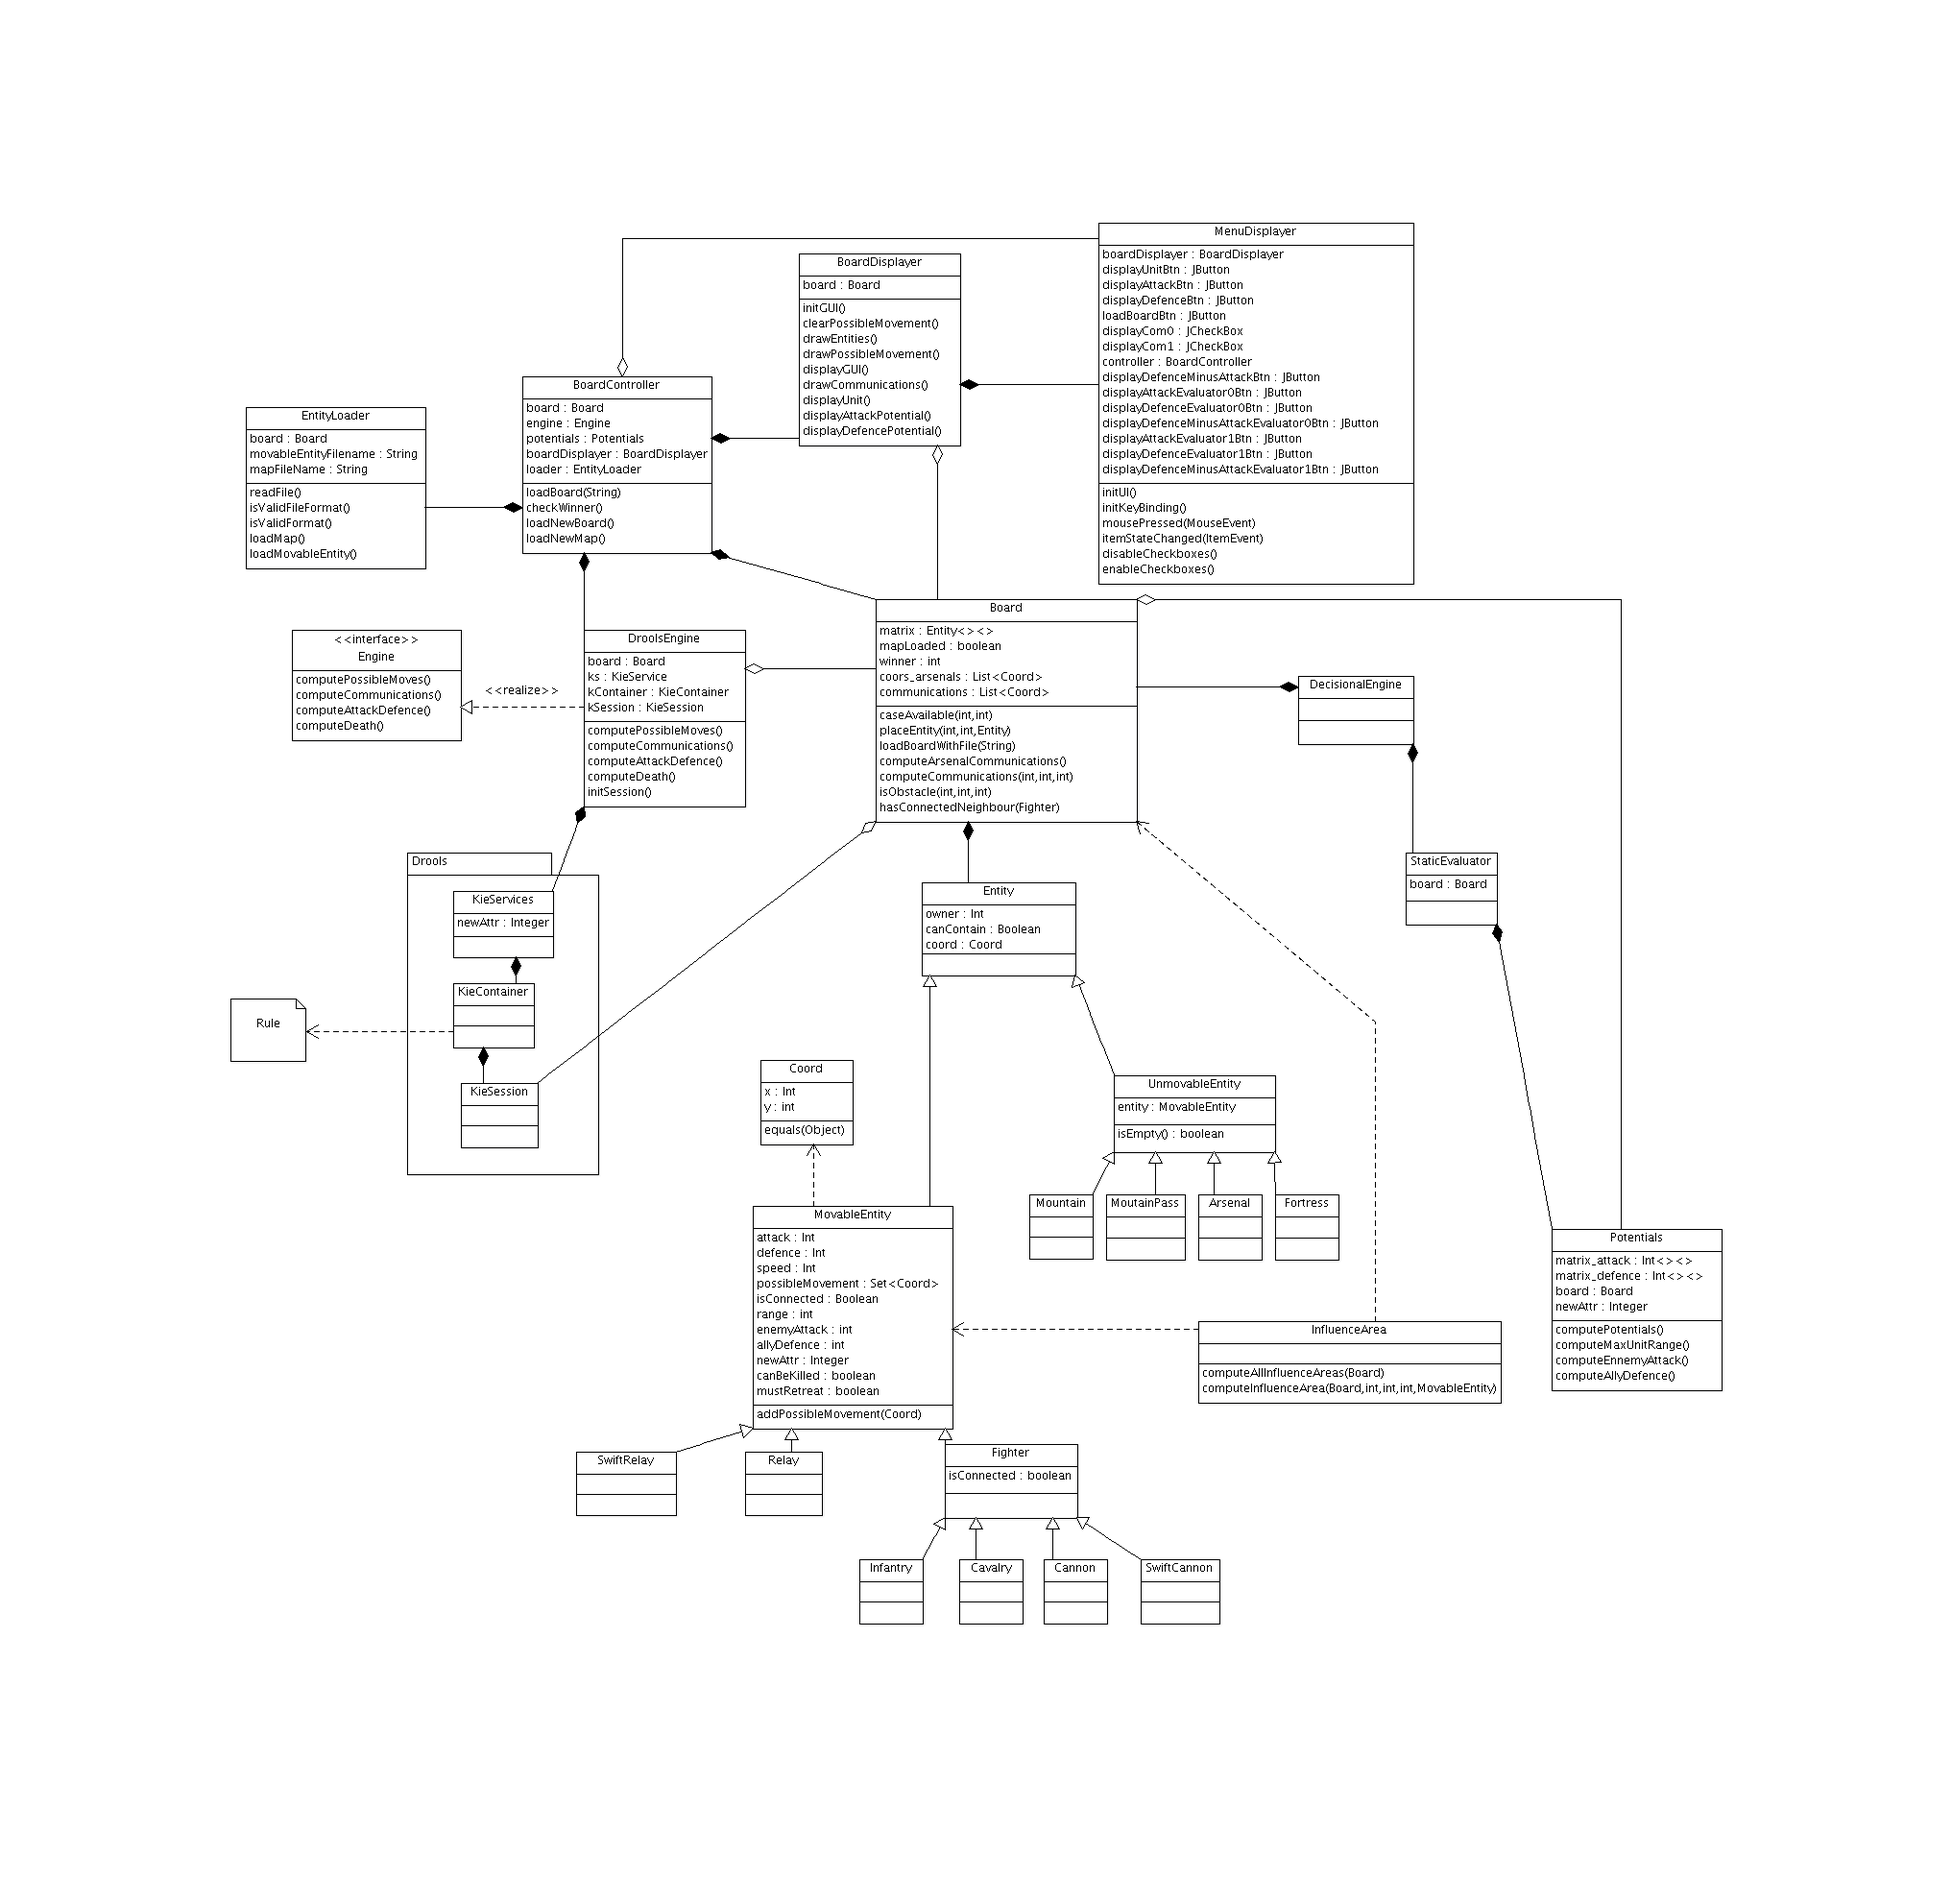
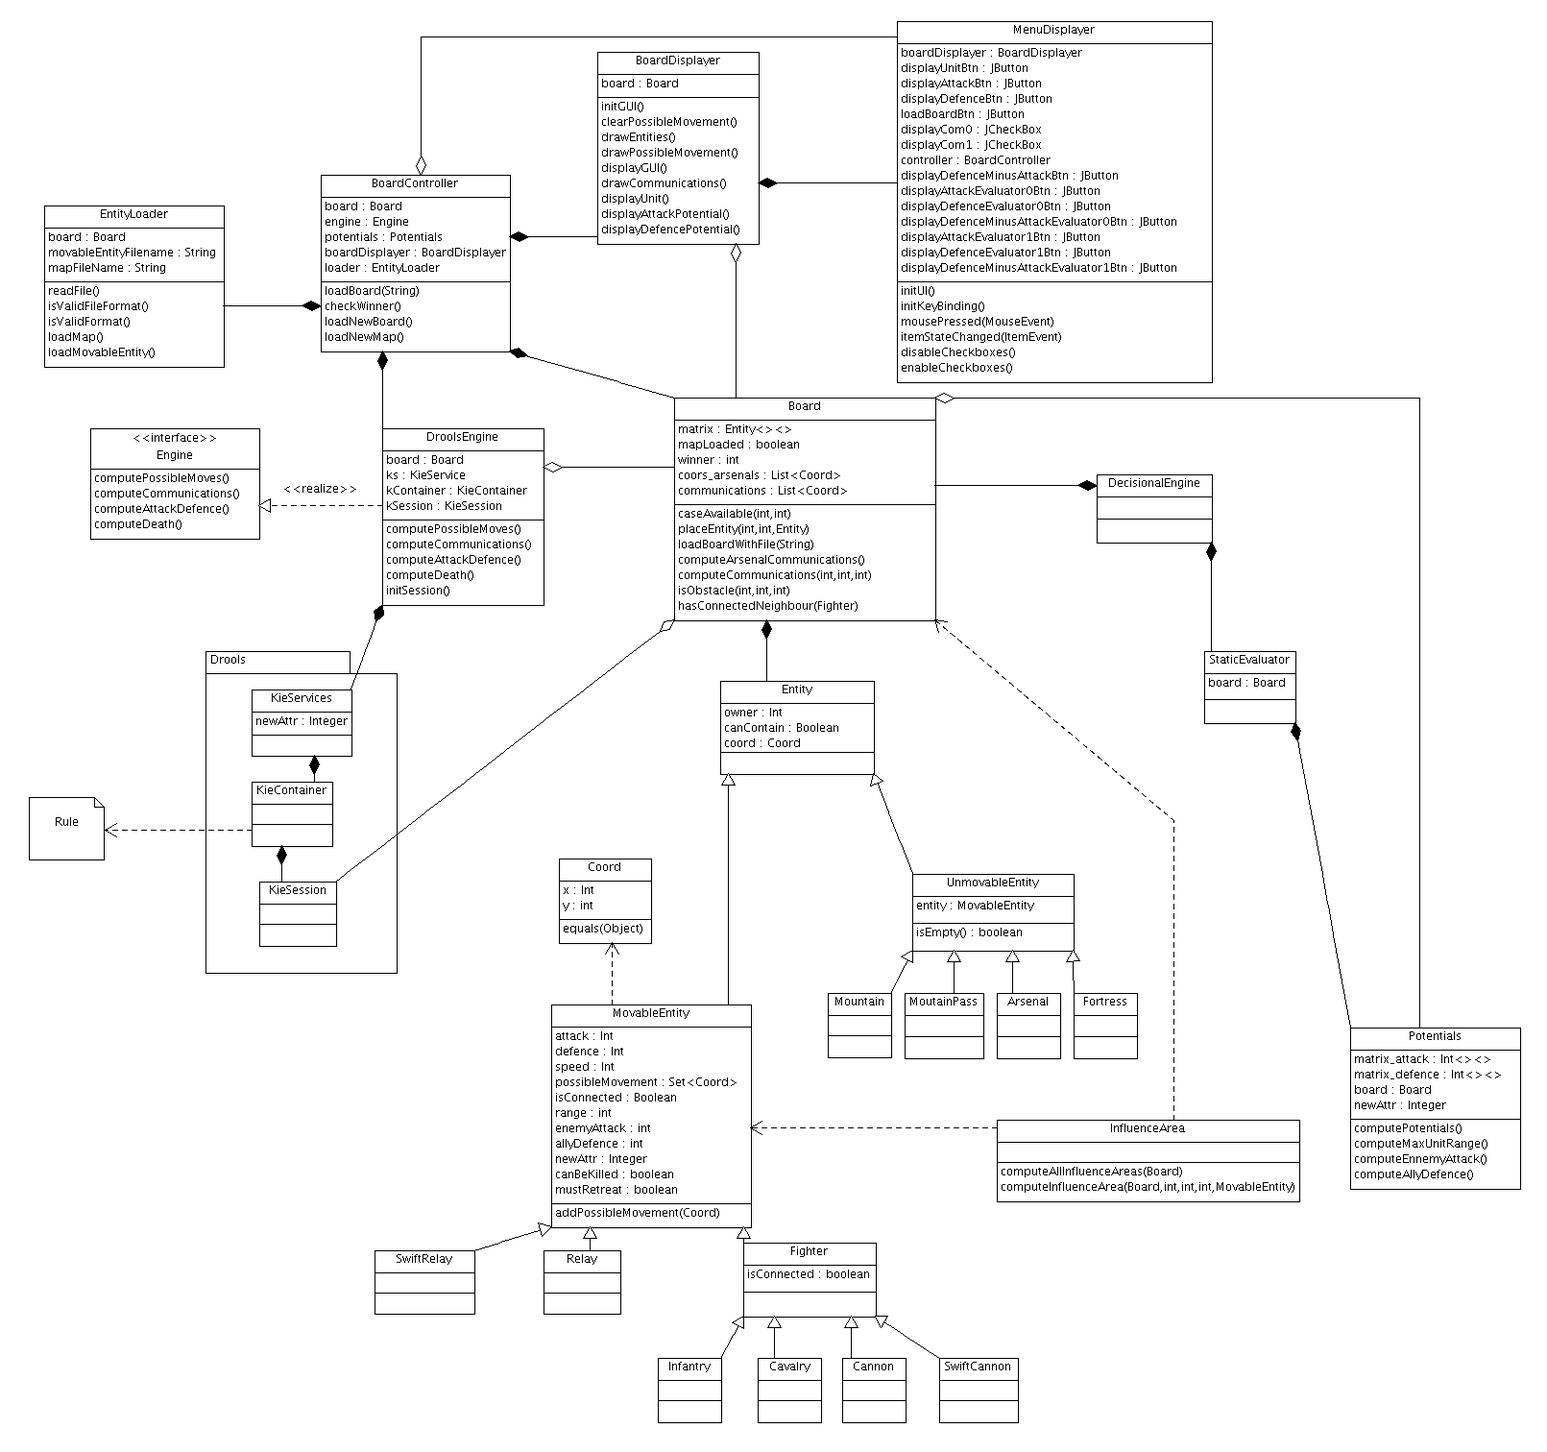
Add epigraph to cite Guy Debord

diff --git a/doc/scenarios.tex b/doc/scenarios.tex
@@ -55,11 +55,10 @@
 			Pour vérifier l'utilité de cette matrice, nous avons transcrit une situation de jeu commentée du livre de Debord.\cite{ref2} (partie retranscrite
 			par la capture d'écran ci-dessus) Nous avons ensuite lu les commentaires à propos de cette partie voir si la stratégie utilisée concordait bien
 			avec les points faibles indiqués par notre matrice.
-			
-			\paragraph{Citation livre "Jeu de la Guerre" de Guy Debord - Page 159 \cite{ref2} : }
-			"La figure 6 représente deux armées groupées, sur le point d'engager la bataille, après avoir marché l'une et l'autre pour s'assurer certaines positions
-			de départ. Le camp Nord est à pied d'oeuvre pour prendre d'assaut la forteresse en L15 qui constitue le pivot de manoeuvre du camp sud"
-			
+
+			\epigraph{La figure 6 représente deux armées groupées, sur le point d'engager la bataille, après avoir marché l'une et l'autre pour s'assurer certaines positions
+			de départ. Le camp Nord est à pied d'oeuvre pour prendre d'assaut la forteresse en L15 qui constitue le pivot de manoeuvre du camp Sud.}{--- \textup{Guy Debord}, Le Jeu de la Guerre - Page 159}
+						
 			\paragraph{}
 			Il est clair d'après la partie commentée que le fort est le point clef de cette bataille, or nous pouvons remarquer que la matrice des points faibles
 			met justement en exergue l'unité se trouvant sur le fort. Il s'agit donc d'une situation pour laquelle cette matrice pourra être parfaitement exploitable

diff --git a/doc/rapport.tex b/doc/rapport.tex
@@ -8,8 +8,16 @@
 \usepackage[hidelinks,breaklinks]{hyperref}
 \usepackage{breakurl}
 \usepackage{listings} 
+\usepackage{epigraph}
 
+\setlength\epigraphwidth{13cm}
+\setlength\epigraphrule{0pt}
 
+\usepackage{etoolbox}
+
+\makeatletter
+\patchcmd{\epigraph}{\@epitext{#1}}{\itshape\@epitext{#1}}{}{}
+\makeatother
 
 \input{vc.tex}
 

diff --git a/doc/architecture_finale.tex b/doc/architecture_finale.tex
@@ -6,7 +6,7 @@
 
 		\begin{figure}[!h]
 		    \caption{Diagramme de classes}
-		    \centerline{\includegraphics[scale=0.38]{images/architecture/diagram2.png}}
+		    \centerline{\includegraphics[scale=0.38]{images/architecture/diagram.png}}
 		\end{figure}
 
 		\clearpage
